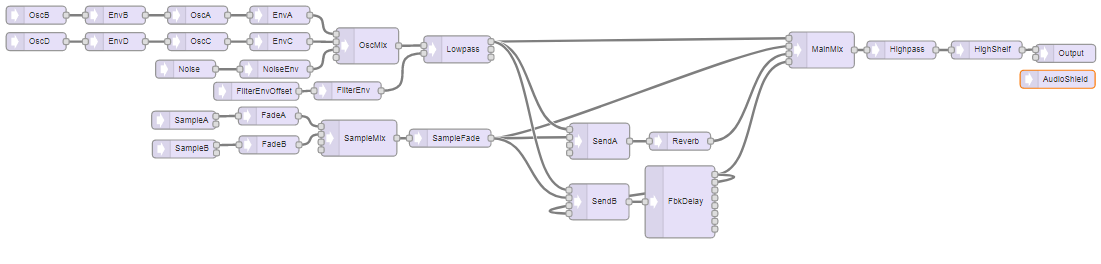
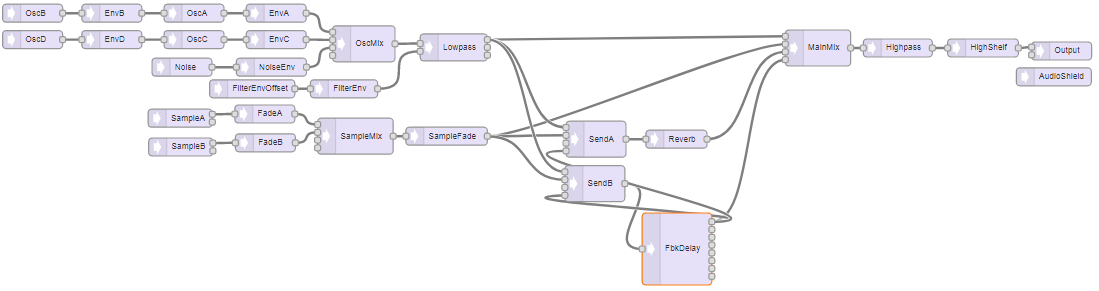
updated synth diagram
FbkDelay can also be sent to the reverb

Changed region(s): [[0.0, 0.0, 1.0, 1.0]]

diff --git a/B_Parabola/SynthDiagram.cpp b/B_Parabola/SynthDiagram.cpp
@@ -5,34 +5,34 @@
 #include <SerialFlash.h>
 
 // GUItool: begin automatically generated code
-AudioSynthWaveformSine   OscB;           //xy=62,27
-AudioSynthWaveformSine   OscD;           //xy=62,71
-AudioEffectEnvelope      EnvB;           //xy=194,27
-AudioEffectEnvelope      EnvD;           //xy=194,71
-AudioPlaySdWav           SampleA;        //xy=308,202
-AudioPlaySdWav           SampleB;        //xy=309,250
-AudioSynthNoiseWhite     Noise;          //xy=311,117
-AudioSynthWaveformSineModulated OscA;           //xy=331,27
-AudioSynthWaveformSineModulated OscC;           //xy=331,71
-AudioSynthWaveformDc     FilterEnvOffset;            //xy=428.75000762939453,153.75000190734863
-AudioEffectFade          FadeA;          //xy=449,195
-AudioEffectFade          FadeB;          //xy=450,243
-AudioEffectEnvelope      NoiseEnv;       //xy=460,117
-AudioEffectEnvelope      EnvA;           //xy=468,27
-AudioEffectEnvelope      EnvC;           //xy=468,71
-AudioEffectEnvelope      FilterEnv;      //xy=581,153
-AudioMixer4              SampleMix;      //xy=600,232
-AudioMixer4              OscMix;         //xy=614,78
-AudioEffectFade          SampleFade;     //xy=752,232
-AudioFilterStateVariable Lowpass;            //xy=764,84
-AudioMixer4              SendB;          //xy=1000,338
-AudioMixer4              SendA;          //xy=1001,237
-AudioEffectFreeverb      Reverb;         //xy=1135,237
-AudioEffectDelay         FbkDelay;       //xy=1135,338
-AudioMixer4              MainMix;        //xy=1371,85
-AudioFilterBiquad        Highpass;            //xy=1504,85
-AudioFilterBiquad        HighShelf;        //xy=1646.2500228881836,85.0000171661377
-AudioOutputI2S           Output;         //xy=1777.7500267028809,90.75000190734863
+AudioSynthWaveformSine   OscB;           //xy=56,27
+AudioSynthWaveformSine   OscD;           //xy=56,71
+AudioEffectEnvelope      EnvB;           //xy=188,27
+AudioEffectEnvelope      EnvD;           //xy=188,71
+AudioPlaySdWav           SampleA;        //xy=302,202
+AudioPlaySdWav           SampleB;        //xy=303,250
+AudioSynthNoiseWhite     Noise;          //xy=305,117
+AudioSynthWaveformSineModulated OscA;           //xy=325,27
+AudioSynthWaveformSineModulated OscC;           //xy=325,71
+AudioSynthWaveformDc     FilterEnvOffset; //xy=422,153
+AudioEffectFade          FadeA;          //xy=443,195
+AudioEffectFade          FadeB;          //xy=444,243
+AudioEffectEnvelope      NoiseEnv;       //xy=454,117
+AudioEffectEnvelope      EnvA;           //xy=462,27
+AudioEffectEnvelope      EnvC;           //xy=462,71
+AudioEffectEnvelope      FilterEnv;      //xy=575,153
+AudioMixer4              SampleMix;      //xy=594,232
+AudioMixer4              OscMix;         //xy=608,78
+AudioEffectFade          SampleFade;     //xy=746,232
+AudioFilterStateVariable Lowpass;        //xy=758,84
+AudioMixer4              SendB;          //xy=993,311
+AudioMixer4              SendA;          //xy=995,237
+AudioEffectFreeverb      Reverb;         //xy=1129,237
+AudioEffectDelay         FbkDelay;       //xy=1130,420
+AudioMixer4              MainMix;        //xy=1365,85
+AudioFilterBiquad        Highpass;       //xy=1498,85
+AudioFilterBiquad        HighShelf;      //xy=1640,85
+AudioOutputI2S           Output;         //xy=1771,90
 AudioConnection          patchCord1(OscB, EnvB);
 AudioConnection          patchCord2(OscD, EnvD);
 AudioConnection          patchCord3(EnvB, OscA);
@@ -62,8 +62,9 @@ AudioConnection          patchCord26(SendA, Reverb);
 AudioConnection          patchCord27(Reverb, 0, MainMix, 2);
 AudioConnection          patchCord28(FbkDelay, 0, MainMix, 3);
 AudioConnection          patchCord29(FbkDelay, 0, SendB, 3);
-AudioConnection          patchCord30(MainMix, Highpass);
-AudioConnection          patchCord31(Highpass, HighShelf);
-AudioConnection          patchCord32(HighShelf, 0, Output, 0);
-AudioControlSGTL5000     AudioShield;    //xy=1764.5000267028809,133.75000286102295
+AudioConnection          patchCord30(FbkDelay, 0, SendA, 3);
+AudioConnection          patchCord31(MainMix, Highpass);
+AudioConnection          patchCord32(Highpass, HighShelf);
+AudioConnection          patchCord33(HighShelf, 0, Output, 0);
+AudioControlSGTL5000     AudioShield;    //xy=1758,133
 // GUItool: end automatically generated code
